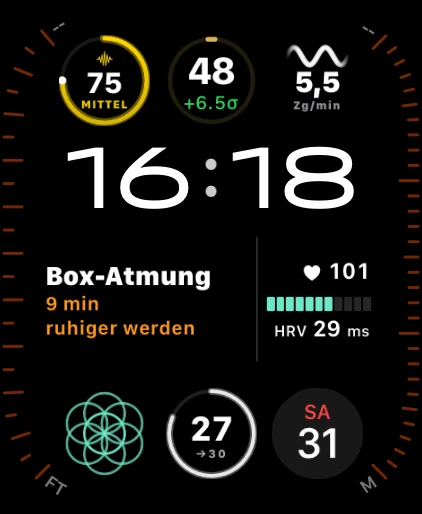
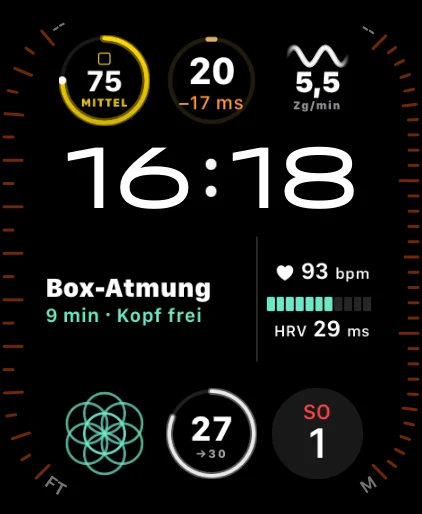
Breathwork: Zifferblatt DE neu zur echten 16:18 (HRV-Komplikation in ms statt σ)
Claude-Session: https://claude.ai/code/session_017FwWe4kkzgBzu5cqoj5Xmm

diff --git a/breathwork/de/index.html b/breathwork/de/index.html
@@ -1170,7 +1170,7 @@ document.head.appendChild(s);})();</script>
       <div class="label" data-en="Every day" data-de="Im Alltag">Im Alltag</div>
       <h2 data-en="Your practice, <em>part of your day.</em>" data-de="Deine Praxis, <em>Teil deines Tages.</em>">Deine Praxis, <em>Teil deines Tages.</em></h2>
       <p class="sub" data-en="CARLON lives where you already look – so the habit builds by itself." data-de="CARLON sitzt dort, wo du ohnehin hinschaust – so wächst die Gewohnheit von selbst.">CARLON sitzt dort, wo du ohnehin hinschaust – so wächst die Gewohnheit von selbst.</p>
-      <div class="geraete-paar rv">      <figure class="uhr-einzeln"><div class="at-device at-uhr"><div class="at-screen"><div class="at-scr on"><img loading="lazy" decoding="async" src="../assets/v2/zifferblatt-coach.de.webp?v=832ac4a8b6" width="422" height="514" alt="Zifferblatt der Apple Watch Ultra um 16:18 mit CARLON-Komplikationen: Der Atem-Coach schlägt Box-Atmung vor, 9 Minuten zum Ruhigerwerden, daneben Puls 101 und HRV 29 ms; rundum Schlaf-Erholung 75, HRV 48 ms, Atemfrequenz 5,5 pro Minute und 27 von 30 Praxistagen" data-alt-de="Zifferblatt der Apple Watch Ultra um 16:18 mit CARLON-Komplikationen: Der Atem-Coach schlägt Box-Atmung vor, 9 Minuten zum Ruhigerwerden, daneben Puls 101 und HRV 29 ms; rundum Schlaf-Erholung 75, HRV 48 ms, Atemfrequenz 5,5 pro Minute und 27 von 30 Praxistagen"></div></div><img decoding="async" loading="lazy" class="at-bezel" src="../assets/v2/watch-ultra3.webp?v=4899c4cc5a" width="600" height="960" alt=""></div></figure>
+      <div class="geraete-paar rv">      <figure class="uhr-einzeln"><div class="at-device at-uhr"><div class="at-screen"><div class="at-scr on"><img loading="lazy" decoding="async" src="../assets/v2/zifferblatt-coach.de.webp?v=f648fe9312" width="422" height="514" alt="Zifferblatt der Apple Watch Ultra um 16:18 mit CARLON-Komplikationen: Der Atem-Coach schlägt Box-Atmung vor, 9 Minuten für einen freien Kopf, daneben Puls 93 und HRV 29 ms; rundum Schlaf-Erholung 75, Nacht-HRV 20 ms – 17 ms unter den Vortagen, Atemfrequenz 5,5 pro Minute und 27 von 30 Praxistagen" data-alt-de="Zifferblatt der Apple Watch Ultra um 16:18 mit CARLON-Komplikationen: Der Atem-Coach schlägt Box-Atmung vor, 9 Minuten für einen freien Kopf, daneben Puls 93 und HRV 29 ms; rundum Schlaf-Erholung 75, Nacht-HRV 20 ms – 17 ms unter den Vortagen, Atemfrequenz 5,5 pro Minute und 27 von 30 Praxistagen"></div></div><img decoding="async" loading="lazy" class="at-bezel" src="../assets/v2/watch-ultra3.webp?v=4899c4cc5a" width="600" height="960" alt=""></div></figure>
 <figure class="home-phone"><div class="home-ausschnitt"><div class="at-device iphone"><div class="at-screen"><div class="at-scr on"><img loading="lazy" decoding="async" src="../assets/v2/home-widgets.de.webp?v=a6d699c2a5" width="1320" height="2868" alt="Ein iPhone-Home-Bildschirm mit fünf CARLON-Widgets: HRV-Labor mit Nacht-SDNN 20 ms, 17 ms unter der Wochen-Baseline, Kälteschock +9 bpm, Kälte- und Tummo-Woche mit erfüllter Kälte-Wochendosis, Schlaf-Erholung 76 mit vorgeschlagener Box-Atmung, Tummo-Praxis 1:42" data-alt-de="Ein iPhone-Home-Bildschirm mit fünf CARLON-Widgets: HRV-Labor mit Nacht-SDNN 20 ms, 17 ms unter der Wochen-Baseline, Kälteschock +9 bpm, Kälte- und Tummo-Woche mit erfüllter Kälte-Wochendosis, Schlaf-Erholung 76 mit vorgeschlagener Box-Atmung, Tummo-Praxis 1:42"></div></div><img decoding="async" loading="lazy" class="at-bezel" src="/assets/app-tour/iphone-18-pro-max-black.webp" width="735" height="1500" alt=""></div></div></figure></div>
       <ul class="points coach-punkte rv">
         <li data-en="<b>The Breath Coach complication on your watch face</b> shows which technique fits right now and for how long – chosen from your personal HRV band, your resting pulse and the time of day. One tap starts it." data-de="<b>Die Komplikation „Atem-Coach“ auf deinem Zifferblatt</b> zeigt dir, welche Technik jetzt passt und wie lange – gewählt nach deinem persönlichen HRV-Band, deinem Ruhepuls und der Tageszeit. Ein Tipp startet sie."><b>Die Komplikation „Atem-Coach“ auf deinem Zifferblatt</b> zeigt dir, welche Technik jetzt passt und wie lange – gewählt nach deinem persönlichen HRV-Band, deinem Ruhepuls und der Tageszeit. Ein Tipp startet sie.</li>

diff --git a/breathwork/index.html b/breathwork/index.html
@@ -1170,7 +1170,7 @@ document.head.appendChild(s);})();</script>
       <div class="label" data-en="Every day" data-de="Im Alltag">Every day</div>
       <h2 data-en="Your practice, <em>part of your day.</em>" data-de="Deine Praxis, <em>Teil deines Tages.</em>">Your practice, <em>part of your day.</em></h2>
       <p class="sub" data-en="CARLON lives where you already look – so the habit builds by itself." data-de="CARLON sitzt dort, wo du ohnehin hinschaust – so wächst die Gewohnheit von selbst.">CARLON lives where you already look – so the habit builds by itself.</p>
-      <div class="geraete-paar rv">      <figure class="uhr-einzeln"><div class="at-device at-uhr"><div class="at-screen"><div class="at-scr on"><img loading="lazy" decoding="async" src="assets/v2/zifferblatt-coach.en.webp?v=19da8a318f" width="422" height="514" alt="An Apple Watch Ultra face at 16:18 with CARLON complications: the Breath Coach suggests box breathing, 9 minutes for a clear head, next to pulse 100 and HRV 29 ms; around it sleep recovery 75, night HRV 20 ms – 17 ms below the previous days, breathing rate 5.5 per minute and 27 of 30 practice days" data-alt-de="Zifferblatt der Apple Watch Ultra um 16:18 mit CARLON-Komplikationen: Der Atem-Coach schlägt Box-Atmung vor, 9 Minuten zum Ruhigerwerden, daneben Puls 101 und HRV 29 ms; rundum Schlaf-Erholung 75, HRV 48 ms, Atemfrequenz 5,5 pro Minute und 27 von 30 Praxistagen"></div></div><img decoding="async" loading="lazy" class="at-bezel" src="assets/v2/watch-ultra3.webp?v=4899c4cc5a" width="600" height="960" alt=""></div></figure>
+      <div class="geraete-paar rv">      <figure class="uhr-einzeln"><div class="at-device at-uhr"><div class="at-screen"><div class="at-scr on"><img loading="lazy" decoding="async" src="assets/v2/zifferblatt-coach.en.webp?v=19da8a318f" width="422" height="514" alt="An Apple Watch Ultra face at 16:18 with CARLON complications: the Breath Coach suggests box breathing, 9 minutes for a clear head, next to pulse 100 and HRV 29 ms; around it sleep recovery 75, night HRV 20 ms – 17 ms below the previous days, breathing rate 5.5 per minute and 27 of 30 practice days" data-alt-de="Zifferblatt der Apple Watch Ultra um 16:18 mit CARLON-Komplikationen: Der Atem-Coach schlägt Box-Atmung vor, 9 Minuten für einen freien Kopf, daneben Puls 93 und HRV 29 ms; rundum Schlaf-Erholung 75, Nacht-HRV 20 ms – 17 ms unter den Vortagen, Atemfrequenz 5,5 pro Minute und 27 von 30 Praxistagen"></div></div><img decoding="async" loading="lazy" class="at-bezel" src="assets/v2/watch-ultra3.webp?v=4899c4cc5a" width="600" height="960" alt=""></div></figure>
 <figure class="home-phone"><div class="home-ausschnitt"><div class="at-device iphone"><div class="at-screen"><div class="at-scr on"><img loading="lazy" decoding="async" src="assets/v2/home-widgets.en.webp?v=b79f449cdf" width="1320" height="2868" alt="An iPhone home screen with five CARLON widgets: HRV lab with night SDNN 20 ms, 17 ms below the weekly baseline, cold shock +9 bpm, cold and Tummo week with the weekly cold dose met, sleep recovery 76 with a suggested box breathing session, Tummo practice 1:42" data-alt-de="Ein iPhone-Home-Bildschirm mit fünf CARLON-Widgets: HRV-Labor mit Nacht-SDNN 20 ms, 17 ms unter der Wochen-Baseline, Kälteschock +9 bpm, Kälte- und Tummo-Woche mit erfüllter Kälte-Wochendosis, Schlaf-Erholung 76 mit vorgeschlagener Box-Atmung, Tummo-Praxis 1:42"></div></div><img decoding="async" loading="lazy" class="at-bezel" src="/assets/app-tour/iphone-18-pro-max-black.webp" width="735" height="1500" alt=""></div></div></figure></div>
       <ul class="points coach-punkte rv">
         <li data-en="<b>The Breath Coach complication on your watch face</b> shows which technique fits right now and for how long – chosen from your personal HRV band, your resting pulse and the time of day. One tap starts it." data-de="<b>Die Komplikation „Atem-Coach“ auf deinem Zifferblatt</b> zeigt dir, welche Technik jetzt passt und wie lange – gewählt nach deinem persönlichen HRV-Band, deinem Ruhepuls und der Tageszeit. Ein Tipp startet sie."><b>The Breath Coach complication on your watch face</b> shows which technique fits right now and for how long – chosen from your personal HRV band, your resting pulse and the time of day. One tap starts it.</li>
